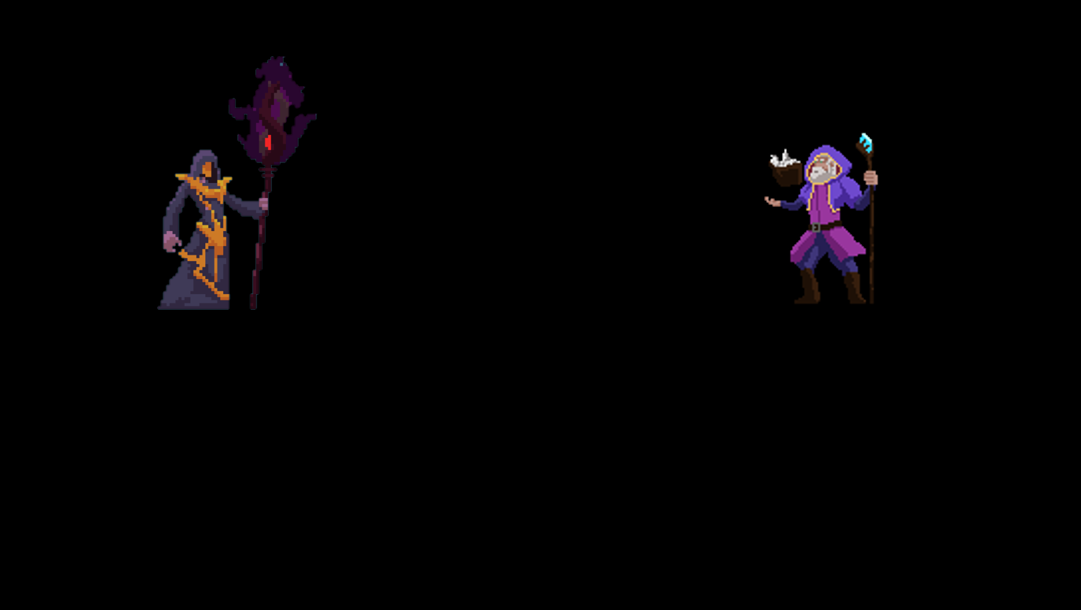
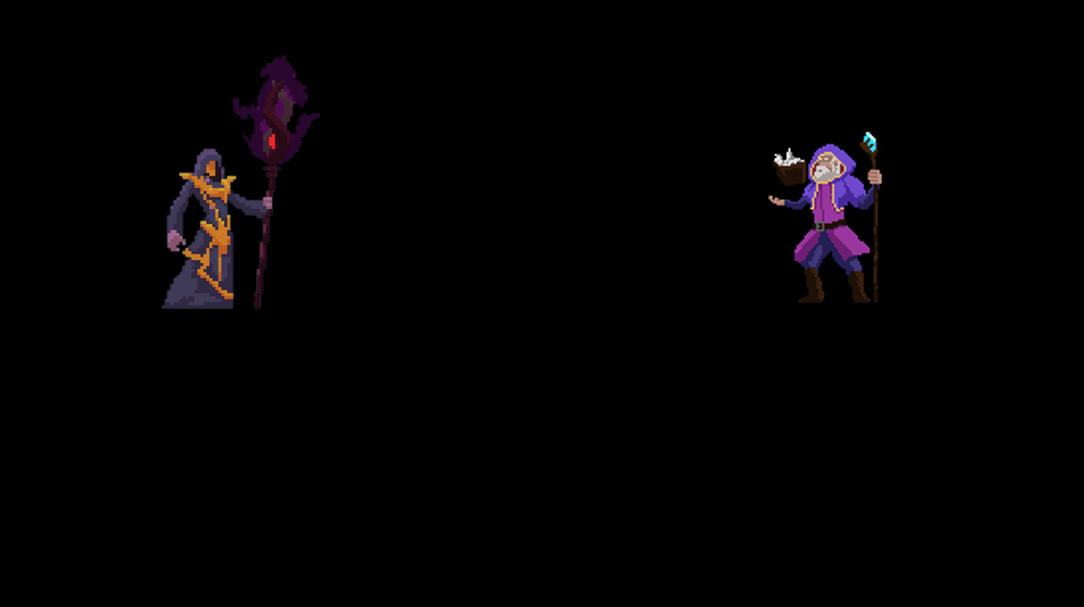
Hahmojen kääntymistä ym.

Changed region(s): [[0.1526, 0.089, 0.2747, 0.5041], [0.7021, 0.2076, 0.8242, 0.4745]]

diff --git a/script.js b/script.js
@@ -6,7 +6,10 @@ canvas.height = 576
 
 c.fillRect(0, 0, canvas.width, canvas.height)
 
+
 const gravity = 0.7
+
+let gameOver = false;
 
 const background = new Sprite({
   position: {
@@ -46,6 +49,7 @@ const player = new Fighter({
     x: 215,
     y: 210
   },
+  facing: 1,
   sprites: {
     idle: {
       imageSrc: './img/Evil Wizard 2/Idle.png',
@@ -167,11 +171,11 @@ const keys = {
 
 
 
-
-
 function animate() {
-  
+ 
   window.requestAnimationFrame(animate)
+  
+  
   c.fillStyle = 'black'
   c.fillRect(0, 0, canvas.width, canvas.height)
   background.update()
@@ -181,6 +185,9 @@ function animate() {
   player.update()
   enemy.update()
 
+ 
+ 
+  
   player.velocity.x = 0
   enemy.velocity.x = 0
 
@@ -189,9 +196,11 @@ function animate() {
   if (keys.a.pressed && player.lastKey === 'a') {
     player.velocity.x = -5
     player.switchSprite('run')
+    player.facing = -1;
   } else if (keys.d.pressed && player.lastKey === 'd') {
     player.velocity.x = 5
     player.switchSprite('run')
+    player.facing = 1;
   } else {
     player.switchSprite('idle')
   }
@@ -207,9 +216,11 @@ function animate() {
   if (keys.ArrowLeft.pressed && enemy.lastKey === 'ArrowLeft') {
     enemy.velocity.x = -5
     enemy.switchSprite('run')
+    enemy.facing = 1;
   } else if (keys.ArrowRight.pressed && enemy.lastKey === 'ArrowRight') {
     enemy.velocity.x = 5
     enemy.switchSprite('run')
+    enemy.facing = -1;
   } else {
     enemy.switchSprite('idle')
   }
@@ -221,6 +232,7 @@ function animate() {
     enemy.switchSprite('fall')
   }
 
+  
   // detect for collision & enemy gets hit
   if (
     rectangularCollision({
@@ -266,16 +278,18 @@ function animate() {
   }
 
   // end game based on health
-  if (enemy.health <= 0 || player.health <= 0) {
+  if (enemy.health <= 0 || player.health <= 0 || timer === 0) {
     determineWinner({ player, enemy, timerId })
-
-
-  // new game
-   
-    document.addEventListener('keydown', newGameKey);
-
+    
+  
   }
-}
+} 
+
+
+
+
+
+
 
 
 
@@ -350,26 +364,34 @@ window.addEventListener('keyup', (event) => {
 // this is for the new game
 
 
-function newGameKey(event) {
+
+function newGameKey(event){
   if (event.key === 'y' || event.key === 'Y') {
       document.removeEventListener('keydown', newGameKey);
+
       newGame();
   }
 }
 
 function newGame(){
+  
+  animate();
   console.log('Uusi peli');
   
 }
 
-function startGame() {
+function startGame(){
+  
+  
   const element = document.getElementById('startMenu');
   element.style.display = 'none';
   
   animate();
   decreaseTimer();
-  
+ 
 }
+
+
 
 
 

diff --git a/js/classes2.js b/js/classes2.js
@@ -20,6 +20,11 @@ class Sprite {
   }
 
   draw() {
+    c.save();
+    c.translate(this.position.x + this.width / 2, this.position.y + this.height / 2);
+    c.scale(this.facing, 1);
+    
+    c.translate(-(this.position.x + this.width / 2), -(this.position.y + this.height / 2));
     c.drawImage(
       this.image,
       this.framesCurrent * (this.image.width / this.framesMax),
@@ -31,6 +36,7 @@ class Sprite {
       (this.image.width / this.framesMax) * this.scale,
       this.image.height * this.scale
     )
+    c.restore();
   }
 
   animateFrames() {
@@ -117,6 +123,8 @@ class Fighter extends Sprite {
 
     this.position.x += this.velocity.x
     this.position.y += this.velocity.y
+
+
 
     // gravity function
     if (this.position.y + this.height + this.velocity.y >= canvas.height - 96) {
@@ -216,4 +224,6 @@ class Fighter extends Sprite {
     }
   }
 }
+
+
 

diff --git a/js/utils.js b/js/utils.js
@@ -20,8 +20,12 @@ function rectangularCollision({ rectangle1, rectangle2 }) {
     } else if (player.health < enemy.health) {
       document.querySelector('#displayText').innerHTML = 'Player 2 Wins'
     }
+    // new game
+      document.querySelector('#newGame').style.display = 'flex';
+      document.addEventListener('keydown', newGameKey);
+      
 
-    document.querySelector('#newGame').style.display = 'flex';
+
   }
 
   let timer = 60
